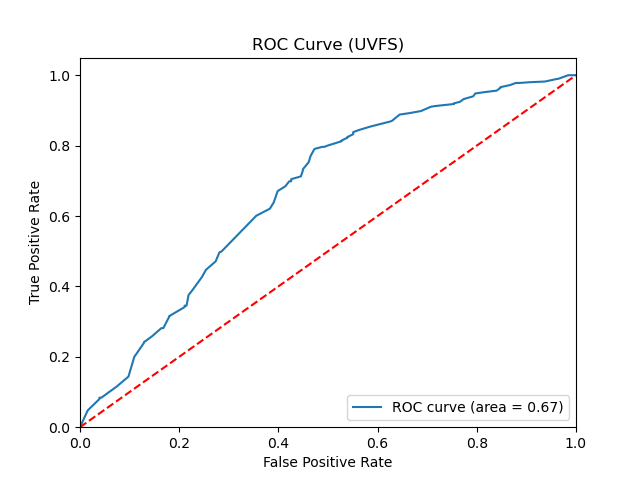
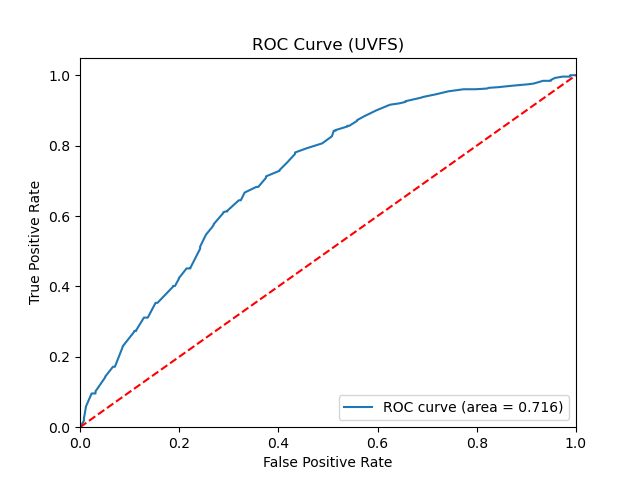
-

diff --git a/Random_Forest_pretty.py b/Random_Forest_pretty.py
@@ -7,10 +7,57 @@ from sklearn.feature_selection import SelectKBest, f_classif
 from sklearn.metrics import roc_curve, auc
 from Data_Preparation import *
 
+####################### SPLITTING DATA ####################################################
+X = data[features]
+y = data[label]
+
+yeares = data["JAHR"]
+
+#for all years
+if current_year == "all":
+    stratify_col = y.astype(str) + "_" + yeares.astype(str)
+
+else:
+    stratify_col = y
+
+X_train, X_test, y_train, y_test = train_test_split(
+    X, y, test_size=0.2, random_state=10, stratify= stratify_col)  #for all years also stratify years
+
+
+############################ MISSING DATA HANDLING ###########################################
+
+#Filling Categorical Columns
+for n in cat_features:
+    X_train[n] = X_train[n].fillna("NA")
+    X_test[n] = X_test[n].fillna("NA")
+
+#Filling Numeric Columns
+for i in X_train[num_features]:
+    X_train[i] = X_train[i].fillna(X_train[i].mean())
+    X_test[i] = X_test[i].fillna(X_train[i].mean())      # To ensure consistency with X_train's mean
+
+
+X_train[cat_features] = X_train[cat_features].astype('category')
+X_test[cat_features] = X_test[cat_features].astype('category')
+
+######################### ONE HOT ENCODING ##################################################################
+X_train = pd.get_dummies(X_train, columns=cat_features, drop_first=True)
+
+X_test = pd.get_dummies(X_test, columns=cat_features, drop_first=True)
+X_test = X_test.reindex(columns=X_train.columns, fill_value=0)
+
+#######################SCALING (not necessary for RF but makes comparison to other models easier) ###################
+sc = StandardScaler()
+X_train[num_features] = sc.fit_transform(X_train[num_features])
+X_test[num_features]  = sc.transform(X_test[num_features])
+
+
+################ Random Forest Model ####################################################
+
 Random_Forest = RandomForestClassifier(class_weight="balanced",random_state=42)
 Random_Forest.fit(X_train, y_train)
 
-#################### Model Prediction (Base RF Model) #######################################################
+
 y_pred = Random_Forest.predict(X_test)
 y_pred_proba = Random_Forest.predict_proba(X_test)[:, 1]
 
@@ -28,7 +75,7 @@ plt.show()
 fp_rates, tp_rates, _ = roc_curve(y_test, y_pred_proba)
 roc_auc = auc(fp_rates, tp_rates)
 plt.figure()
-plt.plot(fp_rates, tp_rates, label='ROC curve (area = {:.2f})'.format(roc_auc))
+plt.plot(fp_rates, tp_rates, label='ROC curve (area = {:.3f})'.format(roc_auc))
 plt.plot([0, 1], [0, 1], 'r--')
 plt.xlim([0.0, 1.0])
 plt.ylim([0.0, 1.05])
@@ -40,12 +87,17 @@ plt.savefig('output/RF_ROC.png')
 
 
 #Model Evaluation
+print("Classification Report RF:")
 print(classification_report(y_test, y_pred))
 accuracy = accuracy_score(y_test, y_pred)
 #Import f1 score
 f1 = f1_score(y_test, y_pred)
 print(f"Accuracy: {accuracy:.4f}")
 print(f"F1 Score: {f1:.4f}")
+fp_rates, tp_rates, _ = roc_curve(y_test, y_pred_proba)
+auc_score = auc(fp_rates, tp_rates)
+print(f"AUC Score: {auc_score:.4f}")
+
 
 ######################## Hyper Parameter Tuning ##############################################################
 # n_estimator tuning
@@ -81,7 +133,7 @@ y_pred_proba = Random_Forest.predict_proba(X_test)[:, 1]
 fp_rates, tp_rates, _ = roc_curve(y_test, y_pred_proba)
 roc_auc = auc(fp_rates, tp_rates)
 plt.figure()
-plt.plot(fp_rates, tp_rates, label='ROC curve (area = {:.2f})'.format(roc_auc))
+plt.plot(fp_rates, tp_rates, label='ROC curve (area = {:.3f})'.format(roc_auc))
 plt.plot([0, 1], [0, 1], 'r--')
 plt.xlim([0.0, 1.0])
 plt.ylim([0.0, 1.05])
@@ -113,7 +165,7 @@ print(df_importances.head(10))
                                                                                                         #maybe feature importance plot
 
 ####################################### RF with UVFS ########################################################
-UVFS_Selector = SelectKBest(score_func=f_classif, k=20) ############################## different k maybe?????????????????????
+UVFS_Selector = SelectKBest(score_func=f_classif, k=40) ############################## different k maybe?????????????????????
 X_UVFS = UVFS_Selector.fit_transform(X_train, y_train)
 X_UVFS_test = UVFS_Selector.transform(X_test)
 
@@ -160,7 +212,7 @@ y_pred_proba = rf_uvfs.predict_proba(X_UVFS_test)[:, 1]
 fp_rates, tp_rates, _ = roc_curve(y_test, y_pred_proba)
 roc_auc = auc(fp_rates, tp_rates)
 plt.figure()
-plt.plot(fp_rates, tp_rates, label='ROC curve (area = {:.2f})'.format(roc_auc))
+plt.plot(fp_rates, tp_rates, label='ROC curve (area = {:.3f})'.format(roc_auc))
 plt.plot([0, 1], [0, 1], 'r--')
 plt.xlim([0.0, 1.0])
 plt.ylim([0.0, 1.05])

diff --git a/Logistic_Regression.py b/Logistic_Regression.py
@@ -22,7 +22,7 @@ import os
 #Transforming object col into category
 #data[cat_features] = data[cat_features].astype('category')
 
-####################### NEW SPLITTING DATA ####################################################
+####################### SPLITTING DATA ####################################################
 X = data[features]
 y = data[label]
 
@@ -39,7 +39,7 @@ X_train, X_test, y_train, y_test = train_test_split(
     X, y, test_size=0.2, random_state=10, stratify= stratify_col)  #for all years also stratify years
 
 
-############################ NEW MISSING DATA HANDLING ###########################################
+############################  MISSING DATA HANDLING ###########################################
 
 #Filling Categorical Columns
 for n in cat_features:
@@ -55,13 +55,13 @@ for i in X_train[num_features]:
 X_train[cat_features] = X_train[cat_features].astype('category')
 X_test[cat_features] = X_test[cat_features].astype('category')
 
-######################### NEW ONE HOT ENCODING ##################################################################
+######################### ONE HOT ENCODING ##################################################################
 X_train = pd.get_dummies(X_train, columns=cat_features, drop_first=True)
 
 X_test = pd.get_dummies(X_test, columns=cat_features, drop_first=True)
 X_test = X_test.reindex(columns=X_train.columns, fill_value=0)
 
-####################### NEW SCALING (after splitting!!) ###############################################################
+#######################  SCALING (after splitting!!) ###############################################################
 sc = StandardScaler()
 X_train[num_features] = sc.fit_transform(X_train[num_features])
 X_test[num_features]  = sc.transform(X_test[num_features])

diff --git a/Data_Preparation.py b/Data_Preparation.py
@@ -93,46 +93,3 @@ print('Shape of modified data set;', data.shape)
 #LABEL BALANCE CHECK
 print(data[label].value_counts(normalize=True))
 
-####################### NEW SPLITTING DATA ####################################################
-X = data[features]
-y = data[label]
-
-yeares = data["JAHR"]
-
-#for all years
-if current_year == "all":
-    stratify_col = y.astype(str) + "_" + yeares.astype(str)
-
-else:
-    stratify_col = y
-
-X_train, X_test, y_train, y_test = train_test_split(
-    X, y, test_size=0.2, random_state=10, stratify= stratify_col)  #for all years also stratify years
-
-
-############################ NEW MISSING DATA HANDLING ###########################################
-
-#Filling Categorical Columns
-for n in cat_features:
-    X_train[n] = X_train[n].fillna("NA")
-    X_test[n] = X_test[n].fillna("NA")
-
-#Filling Numeric Columns
-for i in X_train[num_features]:
-    X_train[i] = X_train[i].fillna(X_train[i].mean())
-    X_test[i] = X_test[i].fillna(X_train[i].mean())      # To ensure consistency with X_train's mean
-
-
-X_train[cat_features] = X_train[cat_features].astype('category')
-X_test[cat_features] = X_test[cat_features].astype('category')
-
-######################### NEW ONE HOT ENCODING ##################################################################
-X_train = pd.get_dummies(X_train, columns=cat_features, drop_first=True)
-
-X_test = pd.get_dummies(X_test, columns=cat_features, drop_first=True)
-X_test = X_test.reindex(columns=X_train.columns, fill_value=0)
-
-####################### NEW SCALING (after splitting!!) ###############################################################
-sc = StandardScaler()
-X_train[num_features] = sc.fit_transform(X_train[num_features])
-X_test[num_features]  = sc.transform(X_test[num_features])

diff --git a/SVM.py b/SVM.py
@@ -10,7 +10,7 @@ import shap
 import matplotlib.pyplot as plt
 import seaborn as sns
 
-from Data_Overview import *
+from Data_Preparation import *
 import os
 
 # --- Parameters --------
